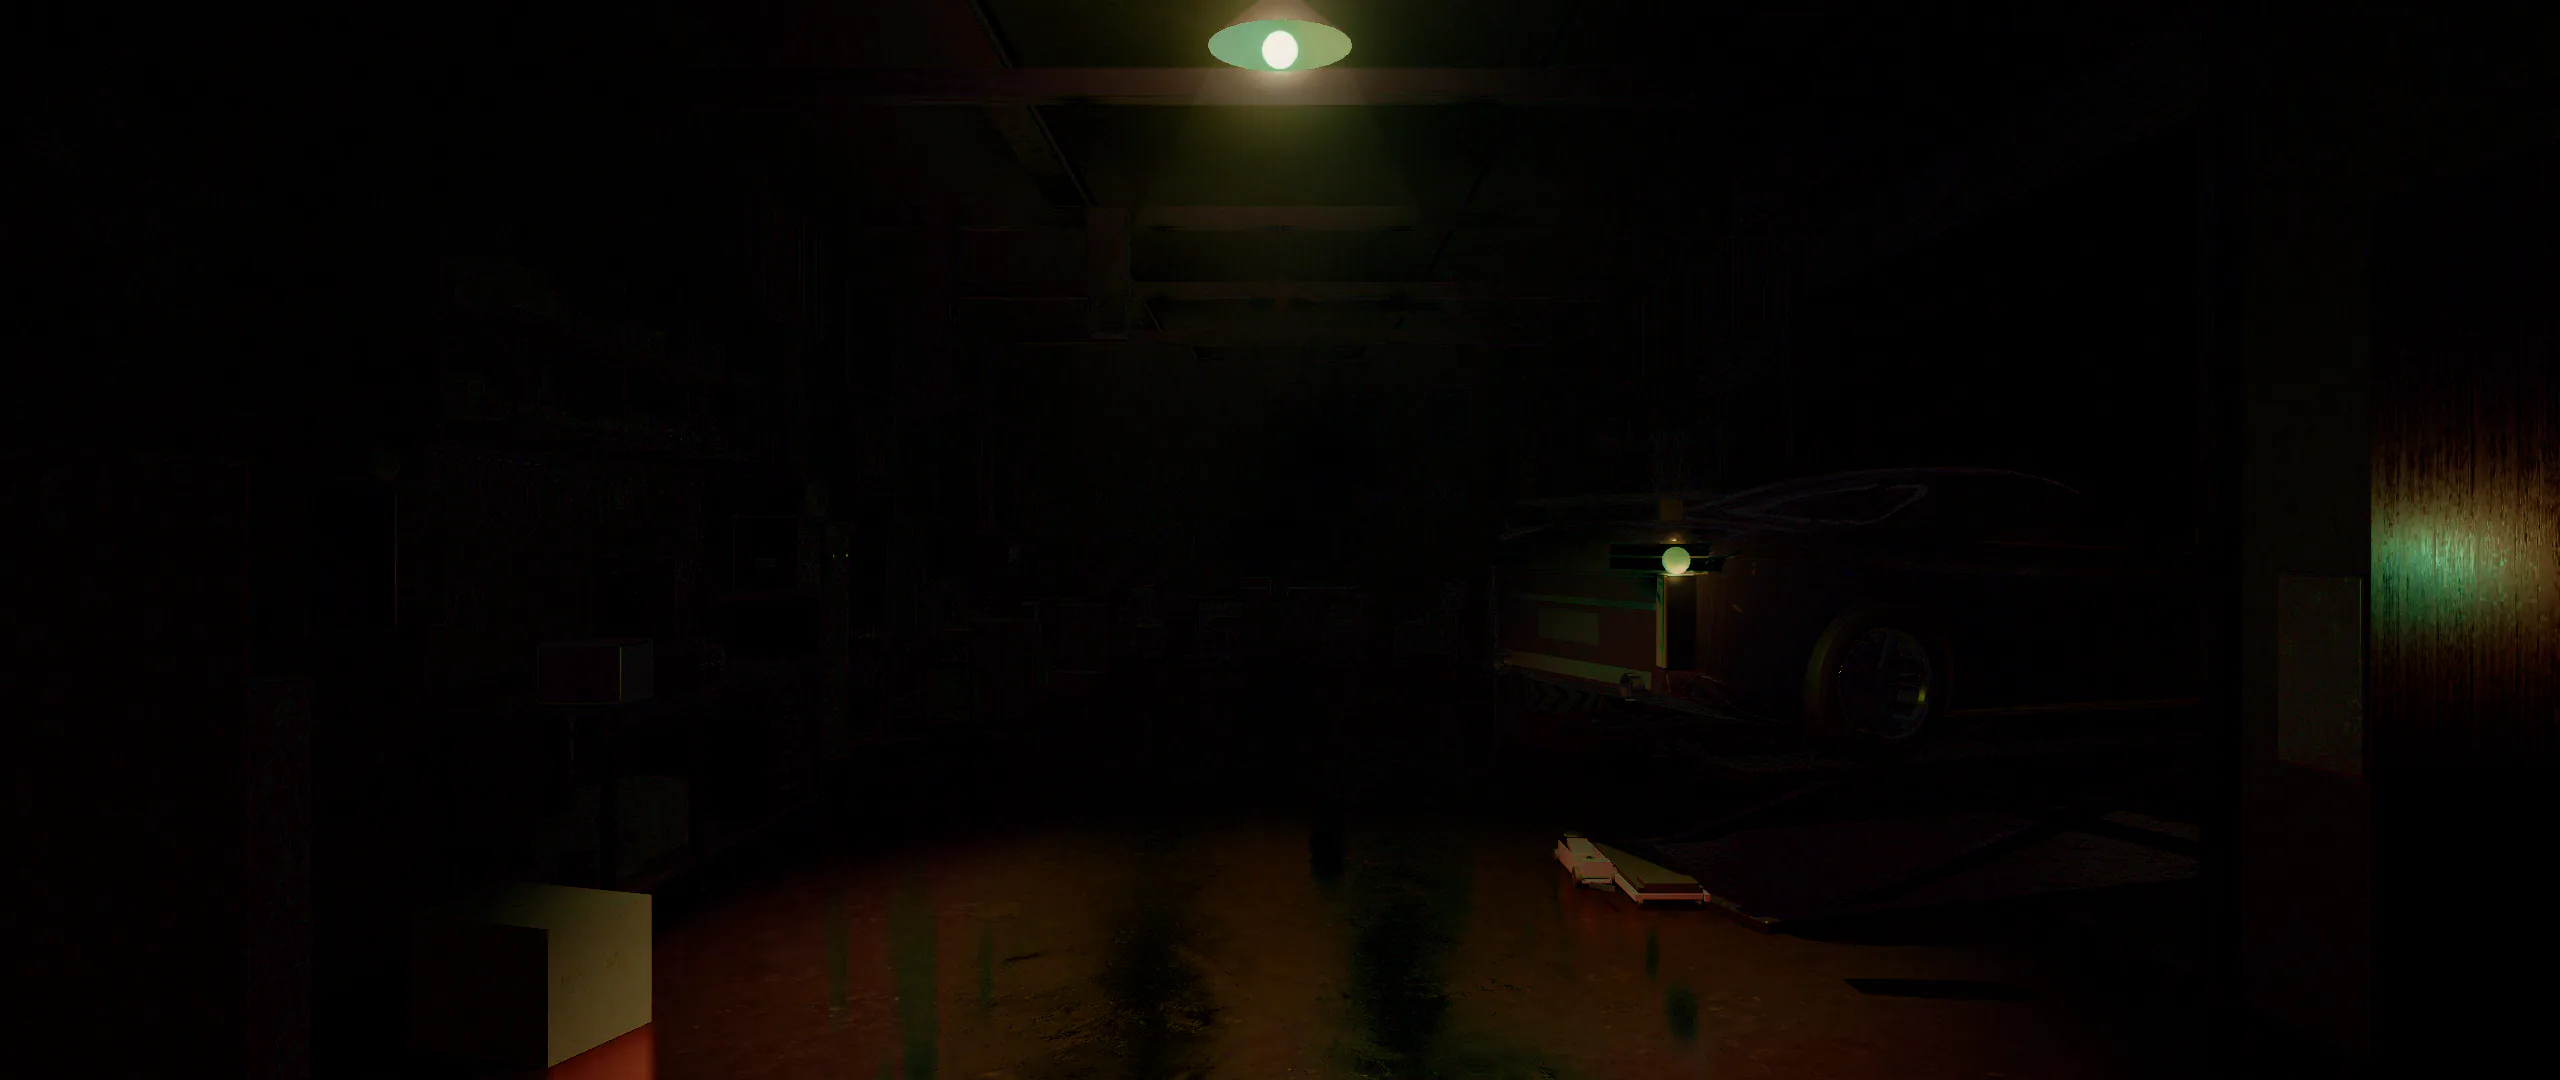
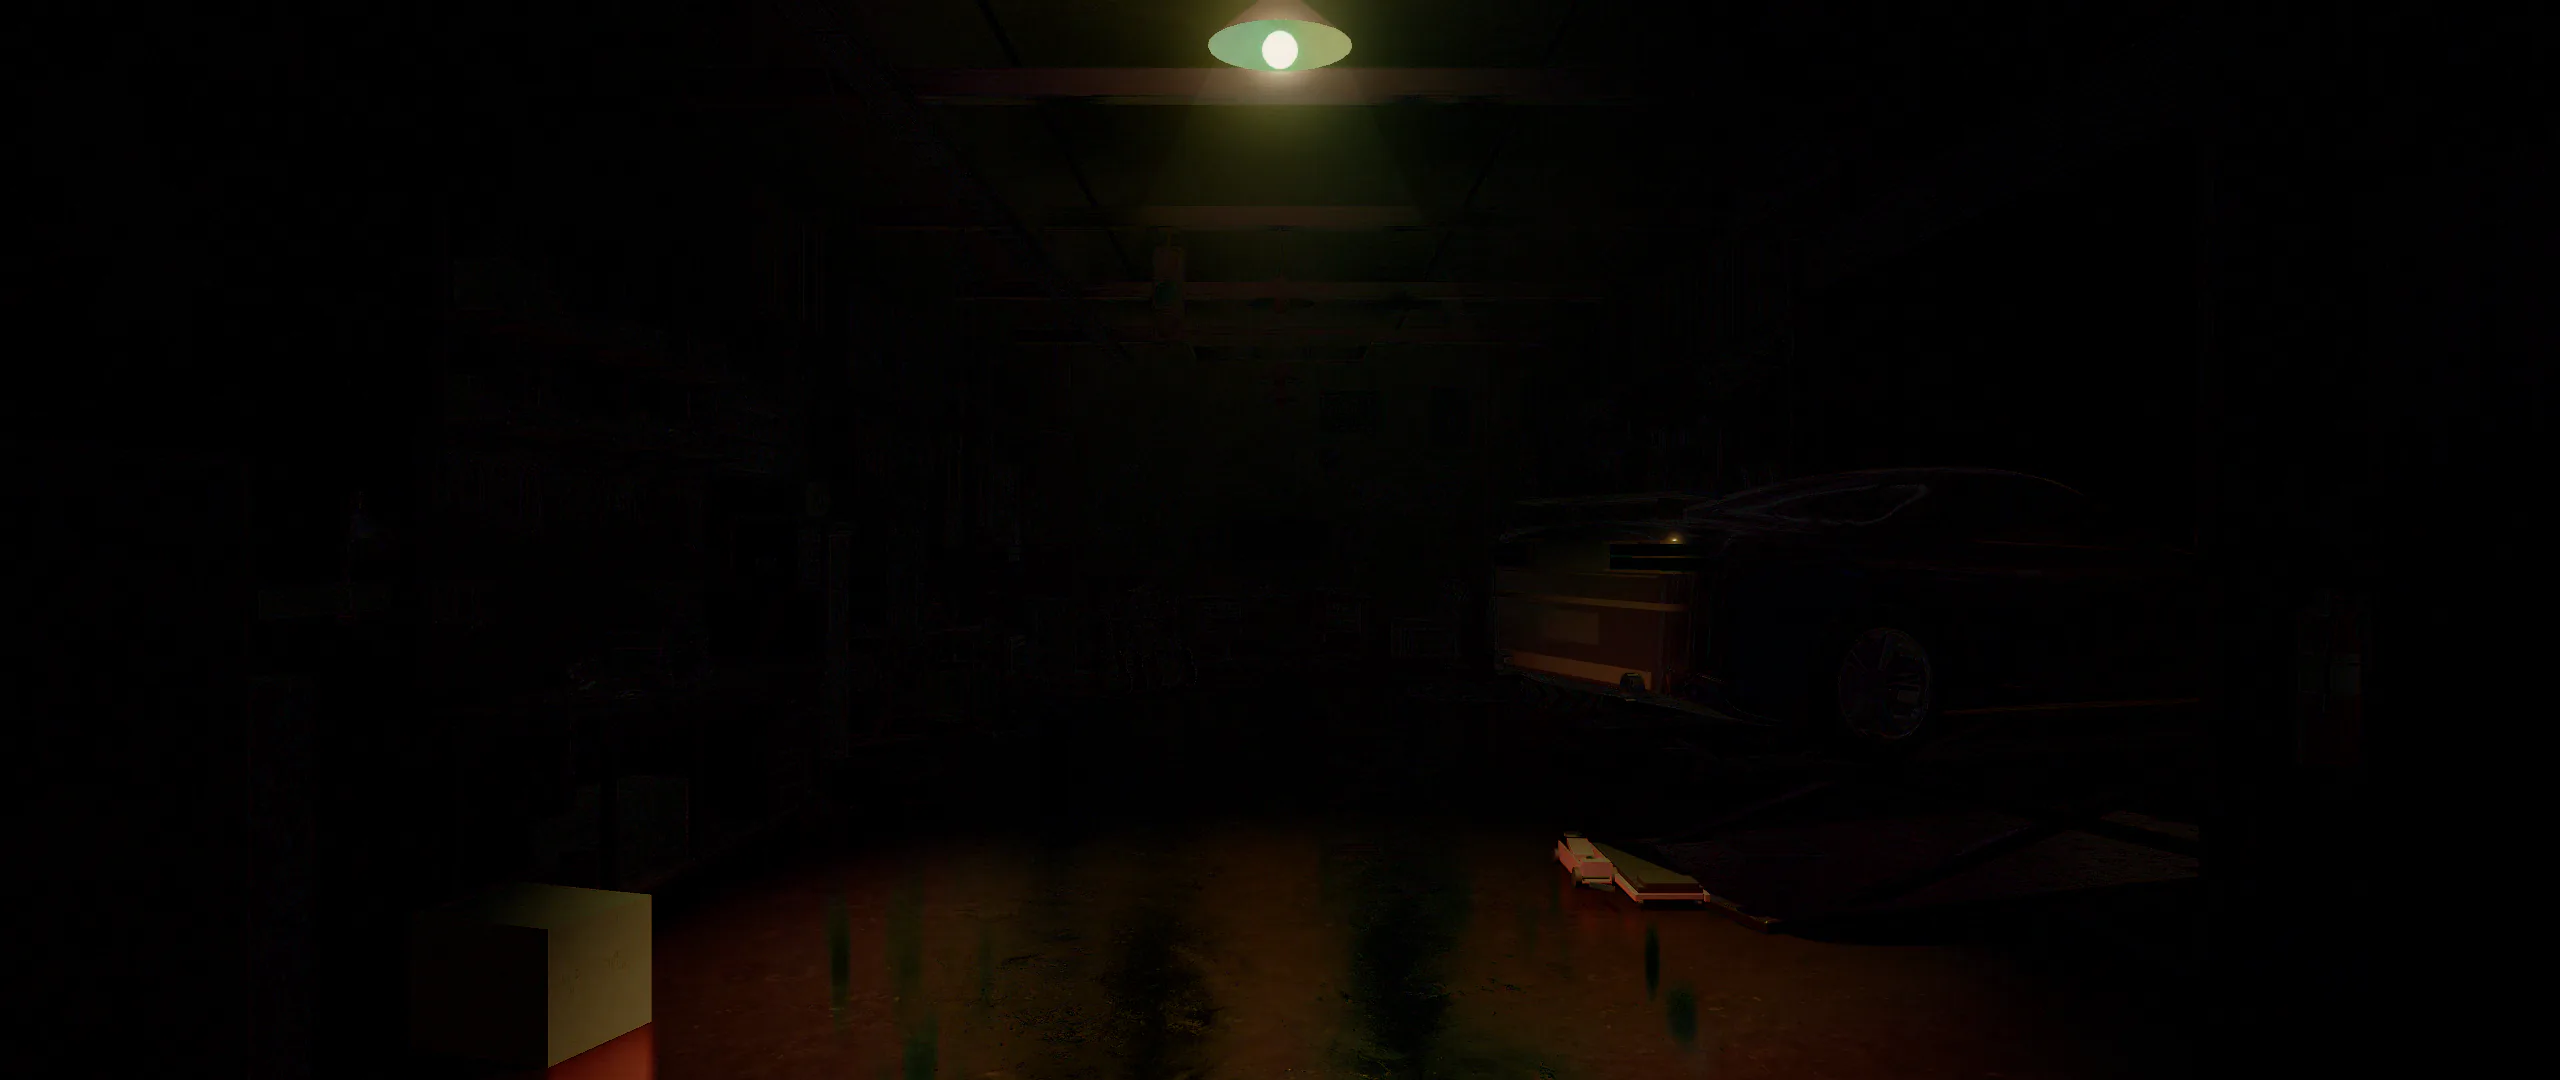
Long garage loading screen: the light layers re-rendered from the room at 064d8b9 (hand-off blurred mean 3.3, p99 14; no page errors)

Changed region(s): [[0.9062, 0.3972, 1.0, 0.6417], [0.5938, 0.4889, 0.6875, 0.6417]]

diff --git a/tools/_home-opening/lights/README.md b/tools/_home-opening/lights/README.md
@@ -26,7 +26,7 @@ first visit of a session; after that soft rises, no flicker).
 - `lights/render.mjs` renders the room at walk 0 with the first k banks on (`room.html?capture=0&lights=k`, k = 0..8;
   the TV off, nothing moving), and `lights/layers.py` turns them into `assets/lights/base.webp` (the dark room) and
   `bank-<k>.webp` (bank k's own light: room k minus the sum so far as encoded, never below 0). 2560x1080, one picture
-  for every laptop like the still (object-fit cover). 12 files, 390 KB; a visit loads one TV picture, ~357 KB.
+  for every laptop like the still (object-fit cover). 12 files, 441 KB; a visit loads one TV picture, ~400 KB.
 - `lights/lights-on.js` stacks them with `mix-blend-mode: plus-lighter` (light adds: every step is the room as
   rendered) and plays each bank's opacity by its kind. Opacity only, so the compositor plays it while the 3D compiles.
 - room.html reports the load (`loaded(phase)`): textures by count, models by bytes, the GPU uploads by count, the
@@ -49,6 +49,13 @@ Re-run the pictures (like still.mjs), then the checks:
 
 A new light: put it in a bank (`props`, or a new bank in `LIGHT_BANKS` and its lines in `lightRoom`), re-render.
 A new skin = new pictures from the same script.
+
+## Checks (2026-11-10, real Chrome, the room at 064d8b9)
+
+- Hand-off at 1141x636 @2x: blurred mean 3.3 levels, p99 14; layers vs the full room mean 3.9, p99 20.
+- Cold 40 Mbit/s: textures 2.2 s, models 7.3 s, uploads 8.6 s, compile 8.8 s (the room grew: batches 5-7); the
+  banks at 1.0 · 1.5 · 1.8 · 3.2 · 4.7 · 5.3 · 6.0 · 6.6 · 7.9 s, hand-off 8.8 s; no page errors. (Measured shares
+  0.25 / 0.58 / 0.15 / 0.02 against LOADW's 0.34 / 0.52 / 0.11 / 0.03: close enough, the Mac was loaded.)
 
 ## Checks (2026-11-09, real Chrome)
 
